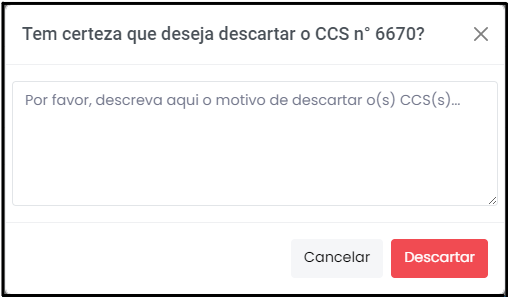
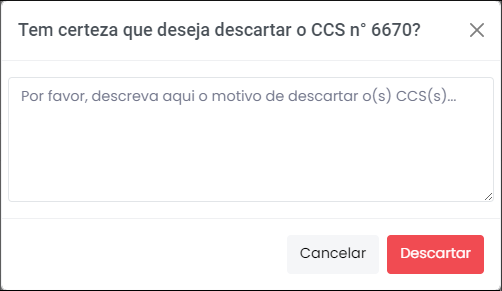
iniciando correções

Changed region(s): [[0.0, 0.0, 1.0, 1.0], [0.5976, 0.8351, 0.747, 0.8969], [0.9263, 0.0619, 0.9562, 0.1546]]

diff --git a/docs/Página11.md b/docs/Página11.md
@@ -5,5 +5,18 @@
 
 <p style="text-align: justify;"> Atendimentos fora do período retratam lotes de contas em que algumas delas apresentam movimentação fora do período de afastamento.</p>
 
+![Aba "Atendimentos Fora do Período"](img/AtendimentosForaDoPeríodo.png)<br>
+*Figura 62 - Atendimentos Fora do Período.* <br>
 
+## Descartar atendimentos
+É possível descartar os atendimentos fora do período um por um ou selecionando todos os atendimentos de uma vez só (Figura x):
 
+![Página2](img/DescartarAtendimentoForaDoPeriodo.png)<br>
+*Figura x - Descartar atendimentos fora do período.* <br>
+
+<svg height="35px" width="35px" style="vertical-align: middle" version="1.1" id="Layer_1" xmlns="http://www.w3.org/2000/svg" xmlns:xlink="http://www.w3.org/1999/xlink" viewBox="0 0 511.999 511.999" xml:space="preserve" fill="#000000" stroke="#000000"><g id="SVGRepo_bgCarrier" stroke-width="0"></g><g id="SVGRepo_tracerCarrier" stroke-linecap="round" stroke-linejoin="round"></g><g id="SVGRepo_iconCarrier"> <path style="fill:#F5C525;" d="M16.242,429.476L232.332,55.195c10.518-18.219,36.814-18.219,47.333,0l216.091,374.281 c10.518,18.219-2.63,40.991-23.666,40.991H39.908C18.872,470.467,5.723,447.695,16.242,429.476z"></path> <g> <path style="fill:#EFEFEF;" d="M255.999,322.45L255.999,322.45c-14.172,0-25.66-11.488-25.66-25.66V172.87 c0-14.172,11.488-25.66,25.66-25.66l0,0c14.172,0,25.66,11.488,25.66,25.66v123.92C281.659,310.962,270.171,322.45,255.999,322.45z "></path> <circle style="fill:#EFEFEF;" cx="256.001" cy="397.558" r="25.034"></circle> </g> <g> <path style="fill:#231F20;" d="M506.597,423.218L290.506,48.937C283.304,36.462,270.404,29.014,256,29.014 c-14.404,0-27.304,7.448-34.506,19.922L5.402,423.218c-7.202,12.475-7.202,27.37,0,39.845 c7.202,12.475,20.103,19.922,34.507,19.922h432.183c14.405,0,27.305-7.448,34.507-19.922 C513.799,450.588,513.799,435.692,506.597,423.218z M484.917,450.545c-1.286,2.227-5.108,7.405-12.826,7.405H39.908 c-7.718,0-11.541-5.178-12.826-7.405c-1.286-2.227-3.859-8.126,0-14.81L243.172,61.454c3.859-6.683,10.255-7.405,12.826-7.405 s8.967,0.722,12.826,7.405l216.091,374.281C488.775,442.419,486.201,448.318,484.917,450.545z"></path> <path style="fill:#231F20;" d="M255.999,134.692c-21.051,0-38.177,17.126-38.177,38.177v123.92 c0,21.051,17.126,38.178,38.177,38.178s38.177-17.126,38.177-38.177V172.87C294.176,151.818,277.05,134.692,255.999,134.692z M269.142,296.79c0,7.247-5.896,13.143-13.143,13.143s-13.143-5.896-13.143-13.143V172.87c0-7.247,5.896-13.143,13.143-13.143 s13.143,5.896,13.143,13.143V296.79z"></path> <path style="fill:#231F20;" d="M255.999,360.002c-20.706,0-37.552,16.846-37.552,37.552c0,20.706,16.846,37.552,37.552,37.552 s37.552-16.846,37.552-37.552C293.55,376.848,276.705,360.002,255.999,360.002z M255.999,410.071 c-6.902,0-12.517-5.615-12.517-12.517c0-6.902,5.615-12.517,12.517-12.517s12.517,5.615,12.517,12.517 C268.516,404.455,262.901,410.071,255.999,410.071z"></path> </g> </g></svg> Não é possível excluir atendimentos que estejam em análise! <br>
+
+<p style="text-align: justify;">Ao clicar em descartar, uma janela será aberta com um campo de justificativa da exclusão - o registro é relevante quando o quarentenista, após algum tempo, quiser recuperar os dados ou saber a causa do descarte (Figura x). </p>
+
+![Página2](img/JustificarDescarteAtendimento.png)<br>
+*Figura x - Justificar descarte de atendimento.* <br><br>

diff --git a/docs/Página12.md b/docs/Página12.md
@@ -5,5 +5,17 @@
 
 <p style="text-align: justify;"> Esta aba especifica as contas que estão fora do intervalo deferido pelo Judiciário.</p>
 
+![Aba "Atendimentos Fora do Período"](img/ContasForaDoPrazo.png)<br>
+*Figura 63 - Contas fora do prazo.* <br>
+
+## Descartar contas 
+É possível descartar as contas fora do prazo uma por uma ou selecionando todas as contas de uma vez só (Figura x):
+
+![Página2](img/DescartarContasForaDoPrazo.png)<br>
+*Figura x - Descartar contas fora do prazo.* <br>
+
+<svg height="35px" width="35px" style="vertical-align: middle" version="1.1" id="Layer_1" xmlns="http://www.w3.org/2000/svg" xmlns:xlink="http://www.w3.org/1999/xlink" viewBox="0 0 511.999 511.999" xml:space="preserve" fill="#000000" stroke="#000000"><g id="SVGRepo_bgCarrier" stroke-width="0"></g><g id="SVGRepo_tracerCarrier" stroke-linecap="round" stroke-linejoin="round"></g><g id="SVGRepo_iconCarrier"> <path style="fill:#F5C525;" d="M16.242,429.476L232.332,55.195c10.518-18.219,36.814-18.219,47.333,0l216.091,374.281 c10.518,18.219-2.63,40.991-23.666,40.991H39.908C18.872,470.467,5.723,447.695,16.242,429.476z"></path> <g> <path style="fill:#EFEFEF;" d="M255.999,322.45L255.999,322.45c-14.172,0-25.66-11.488-25.66-25.66V172.87 c0-14.172,11.488-25.66,25.66-25.66l0,0c14.172,0,25.66,11.488,25.66,25.66v123.92C281.659,310.962,270.171,322.45,255.999,322.45z "></path> <circle style="fill:#EFEFEF;" cx="256.001" cy="397.558" r="25.034"></circle> </g> <g> <path style="fill:#231F20;" d="M506.597,423.218L290.506,48.937C283.304,36.462,270.404,29.014,256,29.014 c-14.404,0-27.304,7.448-34.506,19.922L5.402,423.218c-7.202,12.475-7.202,27.37,0,39.845 c7.202,12.475,20.103,19.922,34.507,19.922h432.183c14.405,0,27.305-7.448,34.507-19.922 C513.799,450.588,513.799,435.692,506.597,423.218z M484.917,450.545c-1.286,2.227-5.108,7.405-12.826,7.405H39.908 c-7.718,0-11.541-5.178-12.826-7.405c-1.286-2.227-3.859-8.126,0-14.81L243.172,61.454c3.859-6.683,10.255-7.405,12.826-7.405 s8.967,0.722,12.826,7.405l216.091,374.281C488.775,442.419,486.201,448.318,484.917,450.545z"></path> <path style="fill:#231F20;" d="M255.999,134.692c-21.051,0-38.177,17.126-38.177,38.177v123.92 c0,21.051,17.126,38.178,38.177,38.178s38.177-17.126,38.177-38.177V172.87C294.176,151.818,277.05,134.692,255.999,134.692z M269.142,296.79c0,7.247-5.896,13.143-13.143,13.143s-13.143-5.896-13.143-13.143V172.87c0-7.247,5.896-13.143,13.143-13.143 s13.143,5.896,13.143,13.143V296.79z"></path> <path style="fill:#231F20;" d="M255.999,360.002c-20.706,0-37.552,16.846-37.552,37.552c0,20.706,16.846,37.552,37.552,37.552 s37.552-16.846,37.552-37.552C293.55,376.848,276.705,360.002,255.999,360.002z M255.999,410.071 c-6.902,0-12.517-5.615-12.517-12.517c0-6.902,5.615-12.517,12.517-12.517s12.517,5.615,12.517,12.517 C268.516,404.455,262.901,410.071,255.999,410.071z"></path> </g> </g></svg> Não é possível excluir atendimentos que estejam em análise! <br>
+
+
 
 

diff --git a/docs/Página03.md b/docs/Página03.md
@@ -3,7 +3,15 @@
 ![Página2](img/Requisições.png)<br>
 *Figura 8 - Aba "Requisições".* <br><br>
 
-<p style="text-align: justify;">Nesta aba é possível visualizar todas as requisições de CCS (cadastro de clientes do sistema financeiro nacional). CCS é a base de dados de todos os clientes do sistema financeiro brasileiro que envolvam relacionamento com instituições financeiras reguladas pelo Banco Central. Essa base é mantida pelo Banco Central e alimentada, obrigatoriamente, pelas instituições financeiras. Para acessar os detalhes de cada requisição, basta clicar no número da requisição (Figura 9). </p>
+<p style="text-align: justify;">Nesta aba é possível visualizar todas as requisições de CCS (cadastro de clientes do sistema financeiro nacional). CCS é a base de dados de todos os clientes do sistema financeiro brasileiro que envolvam relacionamento com instituições financeiras reguladas pelo Banco Central. Essa base é mantida pelo Banco Central e alimentada, obrigatoriamente, pelas instituições financeiras. </p>
+
+## Fluxo
+<span style="background-color: #1b6ec2; border-radius: 4px; padding: 6px; color: #FFFFFF ">Ligado/Desligado</span> Escrever <br><br>
+<span style="background-color: #1b6ec2; border-radius: 4px; padding: 6px; color: #FFFFFF ">Completar Fluxo</span> Escrever <br><br>
+<span style="background-color: #1b6ec2; border-radius: 4px; padding: 6px; color: #FFFFFF ">Reiniciar Fluxo</span> Escrever 
+
+## Detalhes da requisição 
+<p style="text-align: justify;">Para acessar os detalhes de cada requisição, basta clicar no número da requisição (Figura 9). </p>
 
 ![Página2](img/NumRequisição.png)<br>
 *Figura 9 - Acessar detalhes da requisição.* <br><br>
@@ -11,8 +19,9 @@
 <p style="text-align: justify;">A partir da expansão dos detalhes da requisição, é possível identificar as contas por bancos, utilizando a caixa de seleção (Figura 10). </p>
 
 ![Página2](img/ContasPorBancos.png)<br>
-*Figura 10 - Seleção de CCS por Bancos* <br><br>
+*Figura 10 - Seleção de CCS por Bancos* <br>
 
+## Descartar contas
 É possível excluir as contas desnecessárias uma por uma ou selecionando todas as contas de uma vez só (Figura 11):
 
 ![Página2](img/Excluir%20contas%20de%20banco.png)<br>

diff --git a/docs/Página04.md b/docs/Página04.md
@@ -6,6 +6,25 @@
 Nessa aba é possível visualizar todas as contas CCS fora do prazo, ordenáveis por bancos (Figura 18).
 
 ![Página2](img/ContasCCSfora.png)<br>
-*Figura 18 - Contas CCS fora do prazo.* <br><br>
+*Figura 18 - Contas CCS fora do prazo.* <br>
 
---- FINALIZAR PARTE DE DESCARTAR, QUE AINDA NÃO ESTÁ NO SISTEMA 
+## Descartar contas
+É possível excluir as contas desnecessárias uma por uma ou selecionando todas as contas de uma vez só (Figura x):
+
+![Página2](img/DescartarCCSForaDoPrazo.png)<br>
+*Figura x - Excluir contas CCS fora do prazo.* <br><br>
+
+<p style="text-align: justify;">Ao clicar em deletar, uma janela será aberta com um campo de justificativa da exclusão - o registro é relevante quando o quarentenista, após algum tempo, quiser recuperar os dados ou saber a causa do descarte (Figura x). </p>
+
+![Página2](img/JustificarExclusãoCCS.png)<br>
+*Figura x - Justificar exclusão de conta CCS.* <br><br>
+
+<p style="text-align: justify;">Realizada a exclusão, as contas descartadas ficam registradas e podem ser recuperadas a qualquer tempo (Figura x): </p>
+
+![Página2](img/RecuperarCCSDescartadas.png)<br>
+*Figura x - Contas descartadas do CCS vs. Recuperação.* <br><br>
+
+Realizado o descarte, os CCS descartados ficam registrados e podem ser recuperadas a qualquer tempo (Figura x):
+
+![Página2](img/CCSDescartados.png)<br>
+*Figura x - CCS descartados vs. Recuperação.* <br><br>

diff --git a/docs/Página05.md b/docs/Página05.md
@@ -21,7 +21,7 @@
 <p style="text-align: justify;"><span style="background-color: #c9ebff; border-radius: 5px; padding: 7px; color: #000000; font-weight: bold; ">4</span> Para comparar os conteúdos dos lotes de contas (cargas bancárias), basta clicar em "Comparar" (Figura 22). </p>
 
 ![Botão Comparar](img/BotãoComparar.png)<br>
-*Figura 22 - Botão Comparar*. <br><br>
+*Figura 22 - Botão Comparar*. <br>
 
 ## Exclusão de dados
 <p style="text-align: justify;">Ao comparar, haverá algumas possibilidades de exclusão de dados: <br></p>
@@ -67,7 +67,7 @@
 <p style="text-align: justify;"> No decorrer da quarentena é possível ainda conferir a quantidade de cargas bancárias (os atendimentos) realizadas por todos os bancos. O ícone (Figura 30) encontra-se no canto superior direito da aba "Atendimentos'. </p>
 
 ![Total de atendimentos](img/QtdAtendimentos.png)<br>
-*Figura 30 - Total de atendimentos*. <br><br>
+*Figura 30 - Total de atendimentos*. <br>
 
 ## Relatório SIMBA
 <p style="text-align: justify;"> O usuário pode acessar os 7 Relatórios Financeiros do Simba ao clicar no ícone (Figura 31): </p>

diff --git a/docs/Página08.md b/docs/Página08.md
@@ -1,7 +1,7 @@
 # Conta
 
 ![Aba "Bancos"](img/AbaConta.png)<br>
-*Figura 48 - Aba "Conta"* <br><br>
+*Figura 48 - Aba "Conta"* <br>
 
 ## Tabela Bancos
 <p style="text-align: justify;">A aba "Contas" traz a tabela "Bancos" (Figura 49): </p>
@@ -10,7 +10,6 @@
 *Figura 49 - Tabela Bancos* <br>
 
 <p style="text-align: justify;">Esta tabela contêm as seguintes informações: </p>
-
 <ul style="text-align: justify;" >
 <li><strong>Nº Banco: </strong>  código que a instituição financeira se identifica junto ao Banco Central.  </li>
 <li><strong>Nome:</strong> nome do banco. </li>
